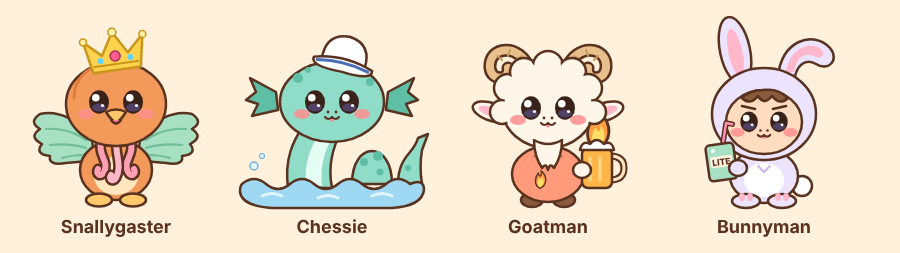
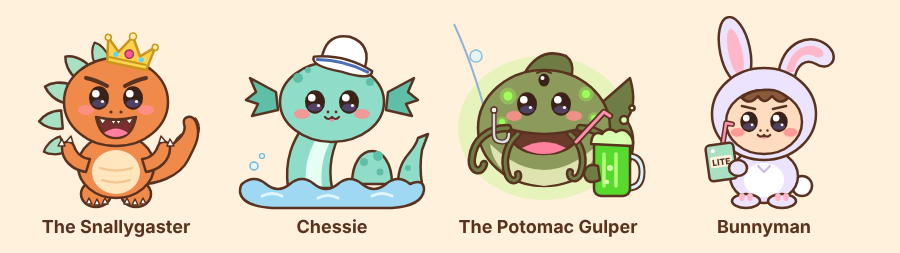
Potomac Gulper replaces Goatman (highest avg ABV); kaiju Snallygaster award art; fix duplicate SVG attributes; palette-neutral Mega blurb
Claude-Session: https://claude.ai/code/session_01BkYWKgrWg7puM3zkxPuDfP

diff --git a/cryptids-awards.js b/cryptids-awards.js
@@ -29,31 +29,84 @@
   const flame = (x, y, s) => `<g transform="translate(${x} ${y}) scale(${s})"><path d="M0,8 C-12,2 -9,-12 -3,-20 C-2,-12 4,-12 2,-24 C14,-14 13,2 0,8 Z" fill="#ff9f43" ${O} stroke-width="${2 / s}"/><path d="M0,6 C-6,2 -5,-6 -1,-11 C0,-6 4,-6 3,-13 C9,-6 7,2 0,6 Z" fill="#ffe066"/></g>`;
   const mirror = (g) => g + `<g transform="matrix(-1 0 0 1 200 0)">${g}</g>`;
 
-  // ── Snallygaster: crowned dragon-bird, feathery wings, beak, curly chin tentacles ──
+  // Rounded dorsal plate pointing "up" in local coords, at (x,y) rotated a degrees (wrap in a filled, outlined <g>).
+  const plate = (x, y, a, s) => `<path transform="translate(${x} ${y}) rotate(${a}) scale(${s})" d="M-9,6 C-10,-4 -5,-13 0,-17 C5,-13 10,-4 9,6 Z"/>`;
+
+  // ── Snallygaster: festival mascot, a chibi orange kaiju going "rawr", crowned overall winner ──
   C.snallygaster = (id) => {
+    const B = "#f08a4b", K = "#ffe6bf", M = "#a8e0c4";
     let g = "";
-    // feathered wings
-    g += mirror(`<path d="M76,122 C64,104 42,94 24,98 Q12,106 24,113 Q12,121 26,128 Q18,138 34,140 Q32,150 50,147 Q64,146 78,144 Z" fill="#a8e0c4" ${O}/>` +
-      `<path d="M70,124 C56,114 40,112 30,113 M70,132 C58,128 44,128 34,129 M72,140 C62,138 54,140 46,142" fill="none" stroke="#6fbf98" stroke-width="2.2" stroke-linecap="round"/>`);
-    // body, belly, feet
-    g += `<ellipse cx="100" cy="154" rx="36" ry="30" fill="#f39a5b" ${O}/><ellipse cx="100" cy="160" rx="22" ry="19" fill="#ffe6bf"/>`;
-    g += mirror(`<ellipse cx="83" cy="184" rx="13" ry="6.5" fill="#ffc86b" ${O}/>`);
-    // curly tentacles under chin
-    g += tube("M86,122 C80,140 94,144 88,156 C85,162 79,158 82,153", "#ff9fb5", 6) +
-      tube("M114,122 C120,140 106,144 112,156 C115,162 121,158 118,153", "#ff9fb5", 6) +
-      tube("M100,124 C100,142 106,150 100,162 C97,167 92,163 95,159", "#ffb8c8", 6);
-    // head
-    g += `<ellipse cx="100" cy="88" rx="50" ry="42" fill="#f39a5b" ${O}/><path d="M58,82 Q58,62 76,52" fill="none" stroke="#e07b3c" stroke-width="3" stroke-linecap="round"/>`;
-    // crown
-    g += `<g transform="rotate(-8 100 46)"><path d="M76,54 L70,22 L87,38 L100,16 L113,38 L130,22 L124,54 Z" fill="#ffd34d" stroke="#c9961a" stroke-width="2.5" stroke-linejoin="round"/>` +
-      `<path d="M77,48 L123,48" stroke="#c9961a" stroke-width="2"/>` +
-      `<circle cx="70" cy="22" r="3.5" fill="#fff2a8" stroke="#c9961a" stroke-width="1.5"/><circle cx="100" cy="16" r="4" fill="#fff2a8" stroke="#c9961a" stroke-width="1.5"/><circle cx="130" cy="22" r="3.5" fill="#fff2a8" stroke="#c9961a" stroke-width="1.5"/>` +
-      `<circle cx="100" cy="40" r="5" fill="#ff5d8f" stroke="#a8325b" stroke-width="1.5"/><circle cx="85" cy="43" r="3" fill="#5dd6ff"/><circle cx="115" cy="43" r="3" fill="#5dd6ff"/></g>`;
-    g += face(100, 84, 1, { nose: false, mouth: false });
-    // little beak + smile
-    g += `<path d="M90,96 Q100,91 110,96 Q105,104 100,107 Q95,104 90,96 Z" fill="#ffc86b" ${O} stroke-width="2.2"/>` +
-      `<path d="M95,104 Q100,111 105,104" fill="#ff7f9e" ${O} stroke-width="2"/>`;
+    // thick tail curling behind (right), with plates along its top
+    g += `<g fill="${M}" ${O}>` + plate(150, 140, 62, .8) + plate(166, 126, 30, .7) + plate(178, 112, 8, .6) + `</g>`;
+    g += `<path d="M118,168 C140,170 164,160 172,144 C178,132 186,120 180,106 C176,98 166,100 168,108 C172,118 158,128 148,134 C136,142 124,144 112,146 Z" fill="${B}" ${O}/>`;
+    // dorsal plates peeking behind head + back (left side, then over the top)
+    g += `<g fill="${M}" ${O}>` + plate(42, 130, -112, .9) + plate(40, 104, -95, 1) + plate(46, 76, -72, 1.05) + plate(62, 52, -48, 1) + plate(84, 40, -22, .85) + `</g>`;
+    // stubby legs with white claws
+    g += mirror(`<ellipse cx="80" cy="178" rx="15" ry="13" fill="${B}" ${O}/>` +
+      `<path d="M70,188 l3,-6 l3,6 Z M78,189 l3,-6 l3,6 Z M86,188 l3,-6 l3,6 Z" fill="#fff" stroke="${L}" stroke-width="1.5" stroke-linejoin="round"/>`);
+    // chunky body + cream belly with stripes
+    g += `<ellipse cx="100" cy="150" rx="38" ry="32" fill="${B}" ${O}/><ellipse cx="100" cy="156" rx="24" ry="22" fill="${K}"/>` +
+      `<path d="M84,152 Q100,157 116,152 M86,164 Q100,169 114,164" fill="none" stroke="#f3c48e" stroke-width="2.2" stroke-linecap="round"/>`;
+    // tiny raised arms with claws (rawr!)
+    g += mirror(`<path d="M70,156 C56,154 46,144 46,132 C46,125 55,123 58,130 C60,137 66,142 74,143 Z" fill="${B}" ${O}/>` +
+      `<path d="M42,130 l4,-7 l3,7 Z M50,126 l5,-6 l2,7 Z" fill="#fff" stroke="${L}" stroke-width="1.5" stroke-linejoin="round"/>`);
+    // big head
+    g += `<ellipse cx="100" cy="86" rx="52" ry="44" fill="${B}" ${O}/>`;
+    // tilted gold crown with gems
+    g += `<g transform="rotate(12 112 44)"><path d="M92,50 L88,26 L101,38 L112,20 L123,38 L136,26 L132,50 Z" fill="#ffd34d" stroke="#c9961a" stroke-width="2.5" stroke-linejoin="round"/>` +
+      `<path d="M93,45 L131,45" stroke="#c9961a" stroke-width="2"/><circle cx="88" cy="26" r="3" fill="#fff2a8" stroke="#c9961a" stroke-width="1.5"/><circle cx="112" cy="20" r="3.5" fill="#fff2a8" stroke="#c9961a" stroke-width="1.5"/><circle cx="136" cy="26" r="3" fill="#fff2a8" stroke="#c9961a" stroke-width="1.5"/>` +
+      `<circle cx="112" cy="38" r="4.2" fill="#ff5d8f" stroke="#a8325b" stroke-width="1.5"/><circle cx="99" cy="41" r="2.6" fill="#5dd6ff"/><circle cx="125" cy="41" r="2.6" fill="#5dd6ff"/></g>`;
+    g += face(100, 80, 1, { nose: false, mouth: false });
+    // furrowed angry-cute brows + nostrils
+    g += `<path d="M70,62 Q80,64 91,70 M130,62 Q120,64 109,70" fill="none" stroke="${L}" stroke-width="4" stroke-linecap="round"/>` +
+      `<circle cx="95" cy="96" r="1.6" fill="${L}"/><circle cx="105" cy="96" r="1.6" fill="${L}"/>`;
+    // open toothy grin: dark mouth, pink tongue, tiny triangle teeth
+    g += `<path d="M80,101 Q100,106 120,101 Q116,122 100,122 Q84,122 80,101 Z" fill="#7a2e2e" ${O}/>` +
+      `<path d="M88,117 Q100,108 112,117 Q106,121 100,121 Q94,121 88,117 Z" fill="#ff7f9e"/>` +
+      `<path d="M83,102.5 l3.5,6 l3.5,-5 Z M110,103.5 l3.5,5 l3.5,-6 Z M95,104.5 l2.5,4.5 l2.5,-4.5 Z M100,104.5 l2.5,4.5 l2.5,-4.5 Z" fill="#fff" stroke="${L}" stroke-width="1.2" stroke-linejoin="round"/>`;
     return svg("Snallygaster", g);
+  };
+
+  // ── Potomac Gulper: giant mutant river catfish, hook in lip, sipping a glowing toxic-green stout ──
+  C.gulper = (id) => {
+    const B = "#8c9a5b", D = "#6f7d44", K = "#dfe3b0", G = "#9dff5a";
+    let g = "";
+    // faint toxic aura
+    g += `<ellipse cx="96" cy="112" rx="86" ry="72" fill="${G}" opacity=".25"/>`;
+    // fishing line + tail fin behind
+    g += `<path d="M44,124 Q30,60 6,8" fill="none" stroke="#8fb4d8" stroke-width="2"/>`;
+    g += `<path d="M150,90 L182,62 Q190,90 178,104 Q190,118 182,146 L150,122 Z" fill="${D}" ${O}/>`;
+    // dorsal fin
+    g += `<path d="M76,58 Q92,30 118,40 Q126,46 124,58 Z" fill="${D}" ${O}/>`;
+    // round body + belly
+    g += `<ellipse cx="96" cy="112" rx="66" ry="58" fill="${B}" ${O}/><path d="M42,128 Q96,180 150,128 Q144,166 96,170 Q48,166 42,128 Z" fill="${K}"/>` ;
+    // glowing mutant spots
+    for (const [x, y, r] of [[60, 80, 4.5], [138, 78, 4], [146, 102, 3], [54, 106, 3]])
+      g += `<circle cx="${x}" cy="${y}" r="${r * 1.9}" fill="${G}" opacity=".35"/><circle cx="${x}" cy="${y}" r="${r}" fill="${G}"/>`;
+    // tiny third eye
+    g += `<ellipse cx="96" cy="64" rx="5.5" ry="6.5" fill="#3a2218"/><circle cx="94.5" cy="62" r="2" fill="#fff"/><path d="M89,57 Q96,53 103,57" fill="none" stroke="${L}" stroke-width="2" stroke-linecap="round"/>`;
+    g += face(96, 86, 1, { nose: false, mouth: false });
+    // wide grinning catfish mouth
+    g += `<path d="M58,112 Q96,124 134,112 Q128,138 96,138 Q64,138 58,112 Z" fill="#6b3a2a" ${O}/>` +
+      `<path d="M74,132 Q96,120 118,132 Q108,138 96,138 Q84,138 74,132 Z" fill="#ff7f9e"/>`;
+    // droopy curly whiskers
+    g += tube("M60,112 C40,112 26,124 24,142 C22,156 34,158 36,148", D, 3.5) +
+      tube("M132,112 C152,112 166,126 166,146 C166,160 154,160 154,150", D, 3.5) +
+      tube("M70,118 C58,128 54,146 60,160 C64,168 72,164 70,158", D, 3) +
+      tube("M122,118 C134,128 138,144 132,158 C128,166 120,162 122,156", D, 3);
+    // hook caught in lip (left), with line
+    g += `<path d="M46,96 L46,118 Q46,126 54,126 Q61,126 61,118" fill="none" stroke="${L}" stroke-width="5" stroke-linecap="round"/><path d="M46,96 L46,118 Q46,126 54,126 Q61,126 61,118" fill="none" stroke="#d6dde6" stroke-width="2.4" stroke-linecap="round"/><circle cx="46" cy="94" r="3" fill="#fff" stroke="${L}" stroke-width="1.5"/>`;
+    // side fin holding a mug of bubbling, glowing green imperial stout + straw
+    g += `<path d="M180,140 Q194,140 194,156 Q194,172 180,172" fill="none" stroke="${L}" stroke-width="7" stroke-linecap="round"/><path d="M180,140 Q194,140 194,156 Q194,172 180,172" fill="none" stroke="#d9f2ff" stroke-width="3" stroke-linecap="round"/>` +
+      `<path d="M128,126 L156,96 L162,100" fill="none" stroke="${L}" stroke-width="6.5" stroke-linecap="round" stroke-linejoin="round"/><path d="M128,126 L156,96 L162,100" fill="none" stroke="#ff8fb0" stroke-width="3" stroke-linecap="round" stroke-linejoin="round"/>` +
+      `<rect x="146" y="124" width="36" height="56" rx="7" fill="#57d92e" ${O}/><path d="M156,138 L156,170 M168,138 L168,170" stroke="#b6ff7a" stroke-width="3.5" stroke-linecap="round"/>` +
+      `<circle cx="162" cy="152" r="3" fill="#d9ffb0"/><circle cx="159" cy="166" r="2.2" fill="#d9ffb0"/>` +
+      `<path d="M143,128 Q144,114 154,118 Q160,110 168,116 Q178,110 184,122 Q186,128 184,130 Z" fill="#d9ffb0" ${O}/>` +
+      `<circle cx="176" cy="104" r="4" fill="#d9ffb0" ${O} stroke-width="1.8"/><circle cx="184" cy="92" r="2.6" fill="#d9ffb0" ${O} stroke-width="1.5"/>` +
+      `<path d="M150,150 Q138,146 136,158 Q138,170 152,164 Z" fill="${D}" ${O}/>`;
+    // bubbles
+    g += `<circle cx="28" cy="40" r="6" fill="#e3f6ff" opacity=".8" stroke="#6fb4d8" stroke-width="1.5"/>`;
+    return svg("Potomac Gulper", g);
   };
 
   // ── Chessie: friendly sea serpent in a sailor hat, humps in wavy water ──
@@ -137,6 +190,18 @@
       `<ellipse cx="74" cy="152" rx="9" ry="8" fill="${S}" ${O}/>`;
     return svg("Bunnyman", g);
   };
+
+  // Some shapes add a stroke override after the shared outline attrs, which repeats an attribute on one tag.
+  // Browsers keep the FIRST copy (dropping the override) and strict SVG parsers reject it, so keep the LAST copy.
+  const dedupeAttrs = (svg) => svg.replace(/<([a-zA-Z][\w:-]*)((?:\s+[\w:-]+="[^"]*")+)\s*(\/?)>/g, (m, tag, attrs, close) => {
+    const seen = new Map();
+    for (const [, k, v] of attrs.matchAll(/\s+([\w:-]+)="([^"]*)"/g)) { seen.delete(k); seen.set(k, v); }
+    return `<${tag}${[...seen].map(([k, v]) => ` ${k}="${v}"`).join("")}${close ? "/" : ""}>`;
+  });
+  for (const k of ["snallygaster", "chessie", "gulper", "goatman", "bunnyman"]) {
+    const f = C[k];
+    if (typeof f === "function") C[k] = (id) => dedupeAttrs(f(id));
+  }
 
   if (typeof module !== "undefined") module.exports = C;
 })(typeof window !== "undefined" ? window : globalThis);

diff --git a/cryptids-tents.js b/cryptids-tents.js
@@ -5,8 +5,10 @@
   const C = root.CRYPTIDS = root.CRYPTIDS || {};
   const L = "#5a3220";
   const SW = `stroke="${L}" stroke-width="2.5" stroke-linejoin="round" stroke-linecap="round"`;
-  const P = (d, f, x = "") => `<path d="${d}" fill="${f}" ${SW}${x}/>`;
-  const E = (cx, cy, rx, ry, f, x = "") => `<ellipse cx="${cx}" cy="${cy}" rx="${rx}" ry="${ry}" fill="${f}" ${SW}${x}/>`;
+  // outline attrs + per-shape overrides (an override replaces the default: duplicate attributes are invalid SVG and HTML keeps the first)
+  const sw = (x) => { let s = SW; for (const [, k] of x.matchAll(/([\w-]+)="/g)) s = s.replace(new RegExp(`(^|\\s)${k}="[^"]*"`), ""); return s.trim() + x; };
+  const P = (d, f, x = "") => `<path d="${d}" fill="${f}" ${sw(x)}/>`;
+  const E = (cx, cy, rx, ry, f, x = "") => `<ellipse cx="${cx}" cy="${cy}" rx="${rx}" ry="${ry}" fill="${f}" ${sw(x)}/>`;
   const F = (cx, cy, rx, ry, f, x = "") => `<ellipse cx="${cx}" cy="${cy}" rx="${rx}" ry="${ry}" fill="${f}"${x}/>`;
   const line = (d, c = L, w = 2.5) => `<path d="${d}" fill="none" stroke="${c}" stroke-width="${w}" stroke-linecap="round" stroke-linejoin="round"/>`;
   // outlined tube: chocolate stroke under a coloured stroke

diff --git a/app.js b/app.js
@@ -670,7 +670,7 @@
       ok: (r) => r.au > 0, sort: (a, b) => b.au - a.au, val: (r) => fmtAu(r.au) + " AU" },
     { key: "chessie", rule: "Most total volume", formula: "Total volume = Σ oz over every counted pour",
       ok: (r) => r.oz > 0, sort: (a, b) => b.oz - a.oz, val: (r) => fmtOz(r.oz) + " oz" },
-    { key: "goatman", rule: "Highest average ABV · min 7 pours", formula: "Avg ABV = Total AU ÷ Total oz (volume-weighted)", min: MIN_AVG_POURS,
+    { key: "gulper", rule: "Highest average ABV · min 7 pours", formula: "Avg ABV = Total AU ÷ Total oz (volume-weighted)", min: MIN_AVG_POURS,
       ok: (r) => isFinite(r.avgAbv), sort: (a, b) => b.avgAbv - a.avgAbv, val: (r) => fmtPct(r.avgAbv) },
     { key: "bunnyman", rule: "Lowest average ABV · min 7 pours", formula: "Avg ABV = Total AU ÷ Total oz (volume-weighted)", min: MIN_AVG_POURS,
       ok: (r) => isFinite(r.avgAbv), sort: (a, b) => a.avgAbv - b.avgAbv, val: (r) => fmtPct(r.avgAbv) },

diff --git a/lore.js b/lore.js
@@ -9,9 +9,9 @@ window.SNALLY_LORE = {
       emoji: "🌊", name: "Chessie",
       story: "The Chesapeake Bay's own sea serpent — dozens of sightings in the '70s and '80s and a 1982 video off Kent Island. It drinks the whole bay.",
     },
-    goatman: {
-      emoji: "🔥", name: "Goatman",
-      story: "Half man, half goat, axe in hand, haunting Fletchertown Road in Prince George's County. Legend says he's an experiment gone wrong at the Beltsville agricultural lab.",
+    gulper: {
+      emoji: "🐟", name: "The Potomac Gulper",
+      story: "Our very own cryptid, first sighted by Maddie: a catfish the size of a kayak hauled out of the Potomac. Whiskers like jumper cables, a faint green glow, decades of feeding on whatever washes downstream. Now it only drinks the strong stuff.",
     },
     bunnyman: {
       emoji: "🐰", name: "Bunnyman",

diff --git a/index.html b/index.html
@@ -198,7 +198,7 @@
       <ul class="how-list">
         <li><b>Sizes:</b> Small 2 oz · Standard 4 oz · To the Brim 5.5 oz, or type your own (max 5.5).</li>
         <li><b>Water (0% ABV) doesn't count</b> anywhere. Stay hydrated anyway. NA beers (e.g. 0.5%) do count.</li>
-        <li><b>Goatman and Bunnyman</b> (highest / lowest average ABV) need at least 7 counted pours.</li>
+        <li><b>The Potomac Gulper and Bunnyman</b> (highest / lowest average ABV) need at least 7 counted pours.</li>
         <li><b>Tent champions</b> have the most AU from that tent's beers; ties share the crown. Custom drinks have no tent.</li>
         <li>An ABV marked <b>~</b> is the festival's estimate.</li>
         <li>Logged the wrong thing? Undo it from <i>My recent pours</i> within 10 minutes.</li>

diff --git a/mascot.js b/mascot.js
@@ -157,7 +157,7 @@
     { name: "Hatchling", title: "Hatchling", blurb: "Still wearing its shell as a hat." },
     { name: "Whelp", title: "Whelp", blurb: "Stubby wings, big appetite, first coins." },
     { name: "Drake", title: "Drake", blurb: "Horns are in. The hoard is growing." },
-    { name: "Mega Elder", title: "Mega Elder Snallygaster", blurb: "Blue fire. Ancient whiskers. A mountain of gold." },
+    { name: "Mega Elder", title: "Mega Elder Snallygaster", blurb: "Elemental fire. Ancient whiskers. A mountain of gold." },
   ];
 
   function draw(stage, opt = {}) {

diff --git a/styles.css b/styles.css
@@ -302,7 +302,7 @@ select.input {
 .award::before { content: ""; position: absolute; inset: 0 0 auto 0; height: 8px; background: var(--accent, var(--mint)); }
 .award-snallygaster { --accent: var(--gold); }
 .award-chessie { --accent: #7cc4e8; }
-.award-goatman { --accent: var(--orange); }
+.award-gulper { --accent: #9be36b; }
 .award-bunnyman { --accent: #f5b5c8; }
 .award-h { display: flex; gap: 12px; align-items: center; margin-top: 4px; }
 .award-emoji {
